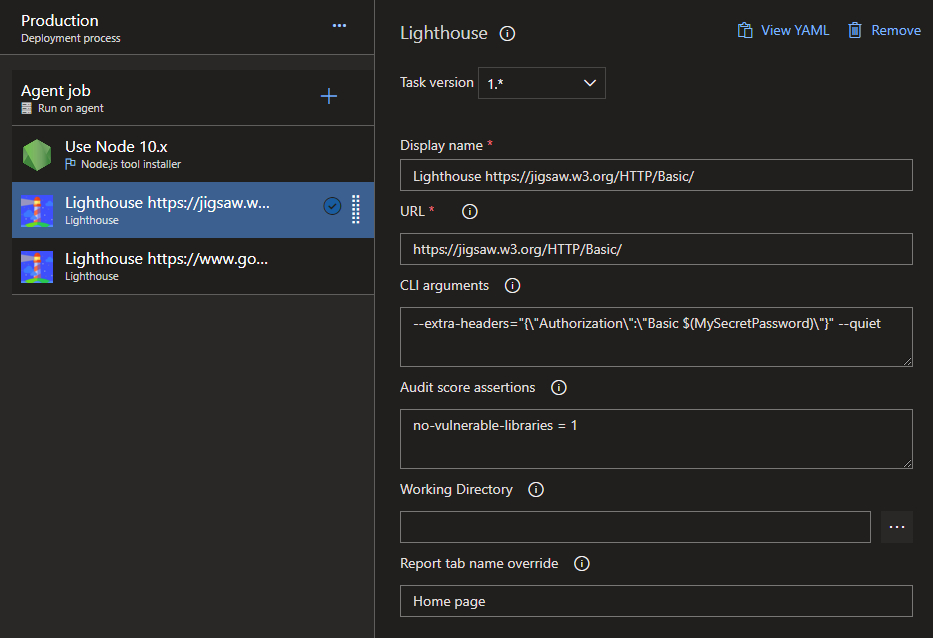
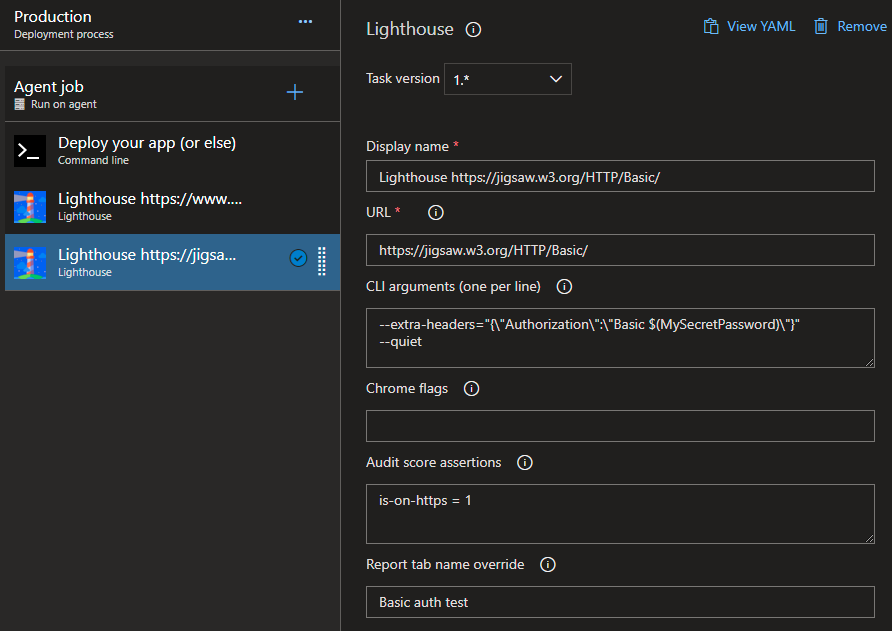
Updated screenshots and documentation

diff --git a/README.md b/README.md
@@ -12,7 +12,7 @@ Otherwise, it will install the latest version in a temporary folder.
 
 You can also specify **audit score assertions** that can make the pipeline fail based on the audit scores.
 
-For example, the Google Lighthouse audit `is-on-https` produces a boolean score that will be equal to `1` if there are no known vulnerabilities within client-side JavaScript libraries and frameworks detected on a web site.
+For example, the Google Lighthouse audit `is-on-https` produces a boolean score that will be equal to `1` if the site uses HTTPS.
 This is an example of a score assertion for this audit:
 
 ```
@@ -125,9 +125,9 @@ Execute `lighthouse --list-all-audits` to discover the available audits for your
 | bf-cache                     | binary  | Page prevented back/forward cache restoration                                                                                      |
 
 
-## Compiling
+## Build and release process
 
-There are GitHub actions that take care of compiling, packaging and publishing the extension.
+There are GitHub actions that take care of testing, packaging and publishing the extension.
 
 ## License
 
